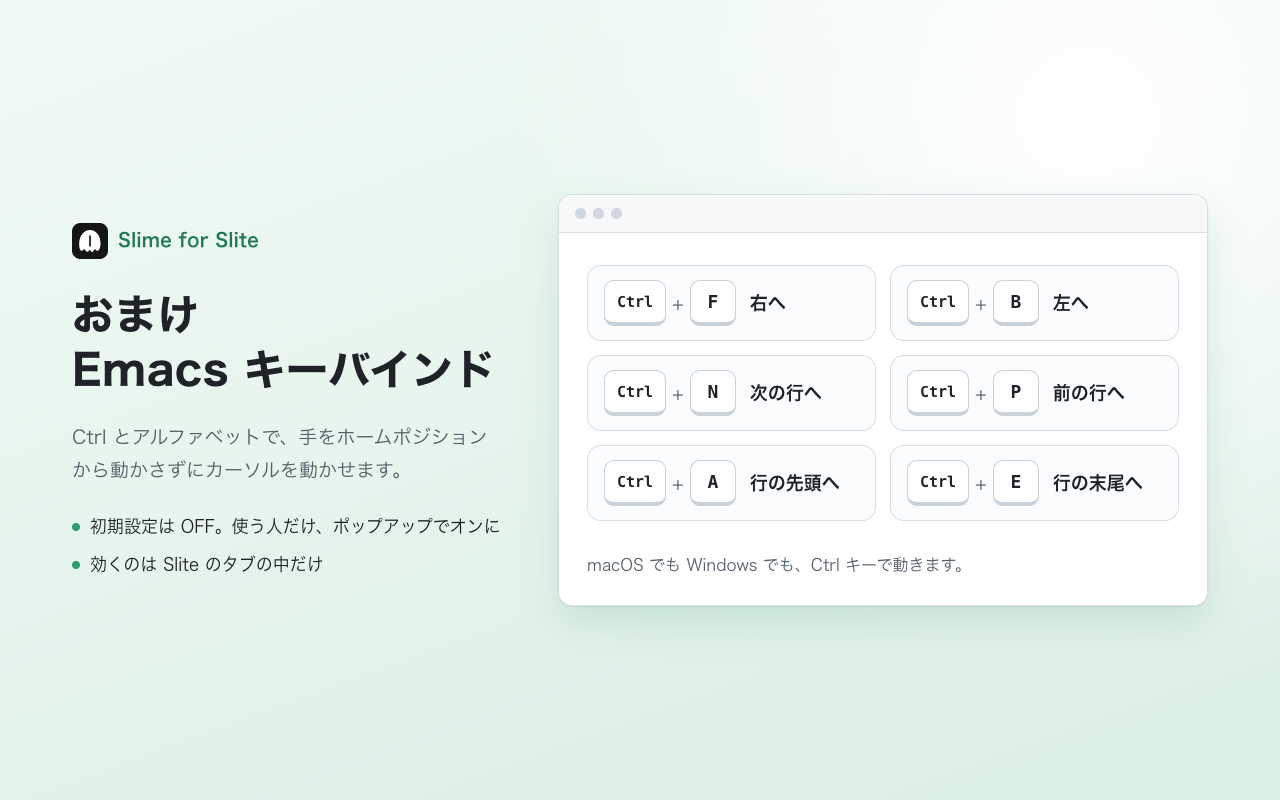
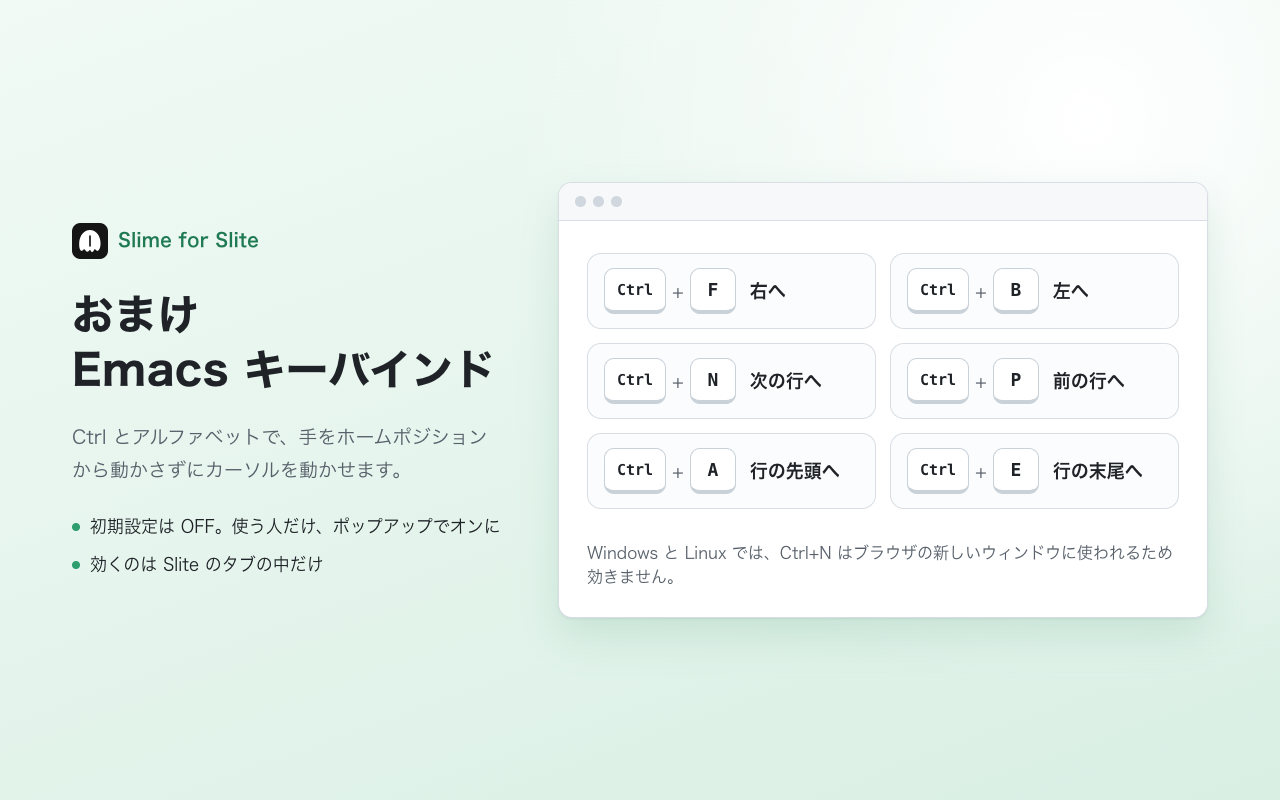
docs(store): describe each problem as docs/root-causes.md records it
A review against docs/root-causes.md found the listing wrong in three
places. The document body only shows the duplicate, while the listing
said it was saved; the row title is the one saved twice, which the
listing left out. The search problem was "the text disappears" when it
is the conversion breaking after every letter, on the search page only.
The Emacs screenshot also said Ctrl works on Windows as well, but
Windows and Linux browsers keep Ctrl+N for a new window.

The listing, the fix and Emacs screenshots and the README now say what
happens. SOURCE_BUILD.md lists the generated _locales files, so an AMO
reviewer can trace the manifest description to build/locales.ts.

diff --git a/store/screenshots/fix.html b/store/screenshots/fix.html
@@ -54,13 +54,13 @@
         <h1>日本語が<br />二重に入力される<br />問題を防ぎます</h1>
         <p class="lead">
           Slite
-          で漢字に変換して確定すると、同じ文字がもう一度表示され、そのまま保存されることがあります。Slime
+          のドキュメントで漢字に変換して確定すると、同じ文字がもう一度表示されることがあります。Slime
           を入れておけば、いつもどおり入力するだけです。
         </p>
         <p class="also">ほかにも、日本語入力で起きるこんな問題を直します</p>
         <ul class="points">
-          <li>データベースの行タイトルで、変換中に Enter を押すと編集が終わる</li>
-          <li>検索ボックスで、変換中の文字が消える</li>
+          <li>データベースの行タイトルが、変換を確定する Enter で二重のまま保存される</li>
+          <li>検索ページで変換が 1 文字ごとに切れ、漢字に変換できない</li>
         </ul>
       </section>
 

diff --git a/store/screenshots/emacs.html b/store/screenshots/emacs.html
@@ -95,7 +95,9 @@
             <span class="label">行の末尾へ</span>
           </div>
         </div>
-        <p class="note">macOS でも Windows でも、Ctrl キーで動きます。</p>
+        <p class="note">
+          Windows と Linux では、Ctrl+N はブラウザの新しいウィンドウに使われるため効きません。
+        </p>
       </section>
     </main>
   </body>

diff --git a/store/listing.md b/store/listing.md
@@ -17,18 +17,18 @@ Shown under the name in search results. 132 characters at most.
 ### ja
 
 ```text
-Slite で日本語を入力すると、漢字に変換して確定した文字がもう一度表示され、そのまま保存されてしまうことがあります。Slime はこの問題を防ぐ拡張機能です。入れておけば、いつもどおり入力するだけで、二重になった文字を消して回る必要がなくなります。
+Slite で日本語を入力すると、漢字に変換して確定した文字がもう一度表示されたり、二重のまま保存されたりすることがあります。Slime はこの問題を防ぐ拡張機能です。入れておけば、いつもどおり入力するだけで、二重になった文字を消して回る必要がなくなります。
 
 ■ 直す問題
-・ドキュメントの本文で、確定した文字が二重に表示・保存される
-・データベースの行タイトルで、変換中に Enter を押すと編集が終わってしまう
-・検索ボックスで、変換中の文字が消える
+・ドキュメントの本文で、確定した文字が二重に表示される
+・データベースの行タイトルで、変換を確定する Enter で編集が終わり、タイトルが二重のまま保存される
+・検索ページで、1 文字ごとに変換が切れ、ローマ字とかなが混ざって漢字に変換できない
 
 ■ 一時停止
 ツールバーのアイコンからポップアップを開き、スイッチひとつで止められます。止めている間はアイコンに OFF と表示され、すべての Slite のタブにすぐ反映されます。
 
 ■ おまけ: Emacs キーバインド
-Ctrl+F / B / N / P / A / E でカーソルを動かせます。初期設定は OFF で、ポップアップからオンにできます。
+Ctrl+F / B / N / P / A / E でカーソルを動かせます。初期設定は OFF で、ポップアップからオンにできます。Windows と Linux では、Ctrl+N はブラウザの新しいウィンドウに使われるため効きません。
 
 ■ プライバシー
 Slime は Slite のページの中で動くだけで、入力した内容を含め、どんなデータも外部に送りません。保存するのは、一時停止と Emacs キーバインドの ON/OFF だけで、それもブラウザの中に残ります。
@@ -40,18 +40,18 @@ https://github.com/Xantibody/slime
 ### en
 
 ```text
-When you type Japanese in Slite, the text you have just converted to kanji and confirmed can appear a second time and be saved that way. Slime stops that from happening: keep it installed, type as usual, and there is nothing to clean up afterwards.
+When you type Japanese in Slite, the text you have just converted to kanji and confirmed can appear a second time, or be saved twice. Slime stops that from happening: keep it installed, type as usual, and there is nothing to clean up afterwards.
 
 What it fixes
-- In a document, confirmed text showing up and being saved twice
-- In a database row title, pressing Enter during a conversion ending the edit
-- In the search box, the text being converted disappearing
+- In a document, confirmed text showing up twice
+- In a database row title, the Enter that confirms a conversion ending the edit and saving the title twice
+- On the search page, the conversion breaking after every letter, leaving romaji mixed with kana and no way to reach kanji
 
 Pause
 Open the popup from the toolbar icon and switch Slime off with one click. While it is paused the icon shows OFF, and every Slite tab follows at once.
 
 Extra: Emacs keybindings
-Move the cursor with Ctrl+F / B / N / P / A / E. Off by default; turn it on in the popup.
+Move the cursor with Ctrl+F / B / N / P / A / E. Off by default; turn it on in the popup. On Windows and Linux, Ctrl+N stays with the browser, which opens a new window.
 
 Privacy
 Slime only runs inside Slite pages and sends nothing anywhere, including what you type. All it stores is whether it is paused and whether the Emacs keybindings are on, and that stays in your browser.

diff --git a/SOURCE_BUILD.md b/SOURCE_BUILD.md
@@ -27,6 +27,7 @@ copies the static files. It produces:
 - `dist/firefox/popup.js` — bundled from `src/entrypoints/popup/main.ts`
 - `dist/firefox/background.js` — bundled from `src/entrypoints/background/firefox.ts`
 - `dist/firefox/manifest.json` — generated by `build/manifest.ts`
+- `dist/firefox/_locales/{en,ja}/messages.json` — generated from `build/locales.ts`, which holds the manifest's description in each language
 - `dist/firefox/popup.html` — copied from `src/entrypoints/popup/index.html`
 - `dist/firefox/icons/` — copied from `icons/`
 - `dist/slime-firefox.xpi` — a zip of `dist/firefox/`

diff --git a/README.md b/README.md
@@ -88,6 +88,9 @@ Off by default. Turn them on in the popup for Emacs-style cursor movement:
 | Ctrl+A   | Move to beginning of line |
 | Ctrl+E   | Move to end of line       |
 
+On Windows and Linux the browser keeps Ctrl+N for a new window and never
+passes it to the page, so it does not move the cursor there.
+
 ## Files
 
 [docs/architecture.md](docs/architecture.md) explains the layout and the rules
